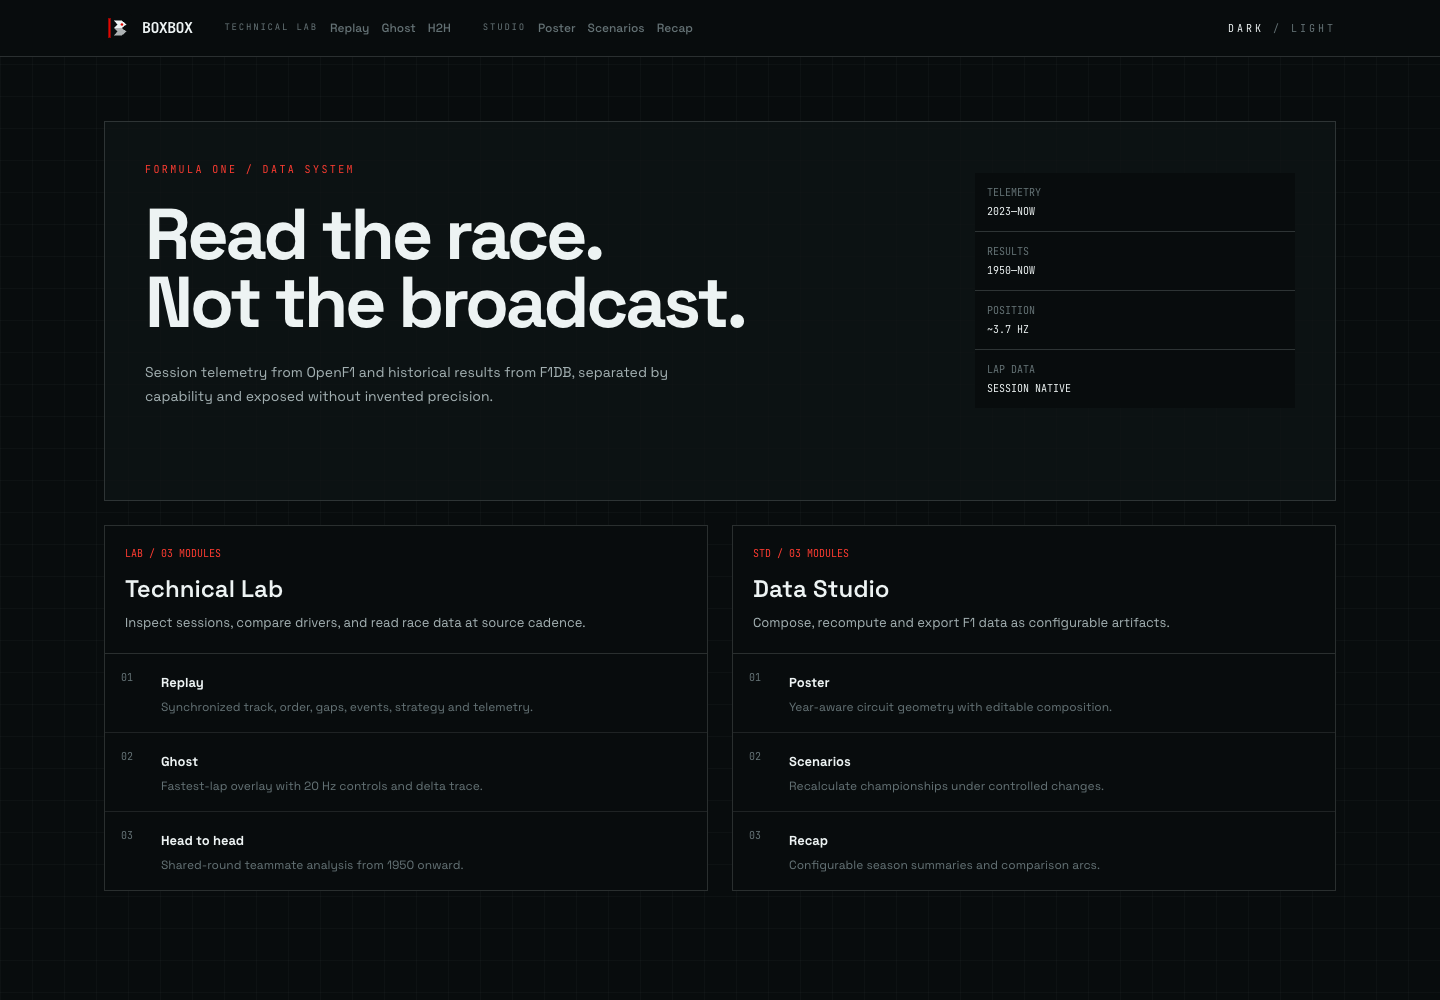
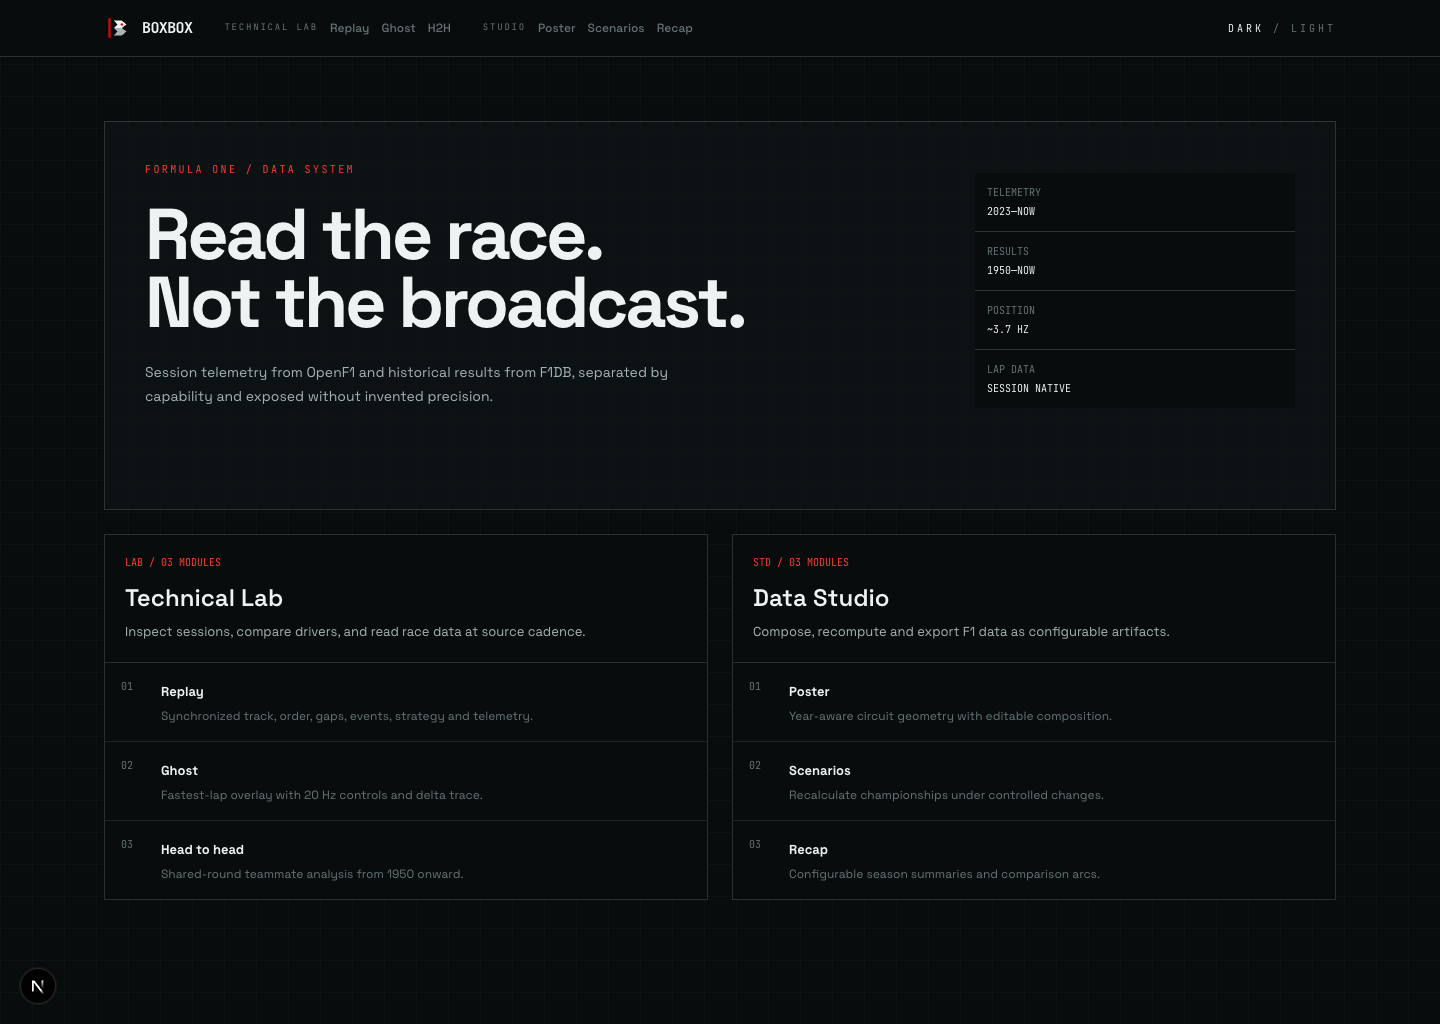
new screenshots of the app

diff --git a/scripts/capture-populated-pages.ts b/scripts/capture-populated-pages.ts
@@ -1,0 +1,89 @@
+import { mkdir } from "node:fs/promises";
+import { chromium, type Page } from "playwright";
+
+const baseUrl = process.env.BASE_URL ?? "http://localhost:3001";
+const outputDir = "screenshots";
+
+async function settle(page: Page) {
+  await page.evaluate(() => document.fonts.ready);
+  await page.waitForTimeout(800);
+}
+
+async function capture(page: Page, name: string) {
+  await settle(page);
+  await page.screenshot({ path: `${outputDir}/${name}.png` });
+}
+
+async function main() {
+  await mkdir(outputDir, { recursive: true });
+
+  const browser = await chromium.launch({ channel: "chrome" });
+  const context = await browser.newContext({
+    viewport: { width: 1440, height: 1024 },
+    colorScheme: "dark",
+    deviceScaleFactor: 1,
+  });
+
+  await context.addInitScript(() => {
+    localStorage.setItem("boxbox-theme", "dark");
+  });
+
+  const page = await context.newPage();
+  page.setDefaultTimeout(30_000);
+
+  try {
+    await page.goto(`${baseUrl}/`, { waitUntil: "networkidle" });
+    await capture(page, "home");
+
+  await page.goto(`${baseUrl}/lab/replay?year=2024&session=9590`);
+  await page.getByText("RUNNING ORDER", { exact: true }).waitFor({
+    state: "visible",
+    timeout: 120_000,
+  });
+  await capture(page, "replay");
+
+  await page.goto(`${baseUrl}/lab/ghost?year=2024&session=9590&a=1&b=4`);
+  await page.getByText("TELEMETRY — DISTANCE ALIGNED", { exact: true }).waitFor({
+    state: "visible",
+    timeout: 120_000,
+  });
+  await capture(page, "ghost");
+
+  await page.goto(`${baseUrl}/lab/h2h`);
+  await page.getByText("VERSUS", { exact: true }).waitFor({
+    state: "visible",
+    timeout: 90_000,
+  });
+  await page.getByText("ROUND LOG · RAW COMPARABLE RESULTS", { exact: true }).waitFor();
+  await capture(page, "h2h");
+
+  await page.goto(
+    `${baseUrl}/studio/poster?year=2025&track=monza&accent=ff3b30&bg=080c0d&ink=edf3f3&line=7&title=MONZA&subtitle=Italian%20Grand%20Prix`,
+  );
+  await page.locator("section svg").waitFor({ state: "visible", timeout: 30_000 });
+  await page.locator("section svg").getByText("MONZA", { exact: true }).waitFor();
+  await capture(page, "poster");
+
+  await page.goto(`${baseUrl}/studio/scenarios`);
+  await page.getByText("FINAL STANDINGS", { exact: true }).waitFor({
+    state: "visible",
+    timeout: 90_000,
+  });
+  await capture(page, "scenarios");
+
+    await page.goto(
+      `${baseUrl}/studio/recap?year=2021&driver=max-verstappen&rival=lewis-hamilton&bg=080c0d&ink=edf3f3&accent=ff3b30`,
+    );
+    const recap = page.locator(".recap-host svg");
+    await recap.waitFor({ state: "visible", timeout: 90_000 });
+    await recap.getByText("VERSTAPPEN", { exact: true }).waitFor();
+    await capture(page, "recap");
+  } finally {
+    await browser.close();
+  }
+}
+
+main().catch((error) => {
+  console.error(error);
+  process.exitCode = 1;
+});

diff --git a/src/app/ghost/page.tsx b/src/app/ghost/page.tsx
@@ -47,16 +47,40 @@ export default function GhostPage() {
   const [geometryNote, setGeometryNote] = useState<string | null>(null);
 
   useEffect(() => {
+    const requestedYear = Number(new URLSearchParams(window.location.search).get("year"));
+    if (YEARS.includes(requestedYear)) setYear(requestedYear);
+  }, []);
+
+  useEffect(() => {
+    let stale = false;
     setSessions([]);
     setMeetingKey(null);
     setSessionKey(null);
-    getJson<SessionInfo[]>(`/api/sessions?year=${year}`).then(setSessions).catch((e) => setError(String(e)));
+    getJson<SessionInfo[]>(`/api/sessions?year=${year}`)
+      .then((next) => {
+        if (!stale) setSessions(next);
+      })
+      .catch((e) => {
+        if (!stale) setError(String(e));
+      });
+    return () => {
+      stale = true;
+    };
   }, [year]);
 
   const meetings = useMemo(() => {
     const seen = new Map<number, SessionInfo>();
     for (const s of sessions) if (!seen.has(s.meeting_key)) seen.set(s.meeting_key, s);
     return [...seen.values()];
+  }, [sessions]);
+
+  useEffect(() => {
+    if (sessions.length === 0) return;
+    const requestedSession = Number(new URLSearchParams(window.location.search).get("session"));
+    const selected = sessions.find((session) => session.session_key === requestedSession);
+    if (!selected) return;
+    setMeetingKey(selected.meeting_key);
+    setSessionKey(selected.session_key);
   }, [sessions]);
 
   const meetingSessions = useMemo(
@@ -72,6 +96,15 @@ export default function GhostPage() {
     if (!sessionKey) return;
     getJson<DriverInfo[]>(`/api/drivers?session_key=${sessionKey}`).then(setDrivers).catch((e) => setError(String(e)));
   }, [sessionKey]);
+
+  useEffect(() => {
+    if (drivers.length === 0) return;
+    const params = new URLSearchParams(window.location.search);
+    const requestedA = Number(params.get("a"));
+    const requestedB = Number(params.get("b"));
+    if (drivers.some((driver) => driver.driver_number === requestedA)) setNumA(requestedA);
+    if (drivers.some((driver) => driver.driver_number === requestedB)) setNumB(requestedB);
+  }, [drivers]);
 
   useEffect(() => {
     if (!sessionKey || numA == null || numB == null || numA === numB) return;

diff --git a/src/app/replay/page.tsx b/src/app/replay/page.tsx
@@ -53,11 +53,35 @@ export default function ReplayPage() {
   const [geometryNote, setGeometryNote] = useState<string | null>(null);
 
   useEffect(() => {
+    const requestedYear = Number(new URLSearchParams(window.location.search).get("year"));
+    if (YEARS.includes(requestedYear)) setYear(requestedYear);
+  }, []);
+
+  useEffect(() => {
+    let stale = false;
     setSessions([]);
     setMeetingKey(null);
     setSessionKey(null);
-    getJson<SessionInfo[]>(`/api/sessions?year=${year}`).then(setSessions).catch((e) => setError(String(e)));
+    getJson<SessionInfo[]>(`/api/sessions?year=${year}`)
+      .then((next) => {
+        if (!stale) setSessions(next);
+      })
+      .catch((e) => {
+        if (!stale) setError(String(e));
+      });
+    return () => {
+      stale = true;
+    };
   }, [year]);
+
+  useEffect(() => {
+    if (sessions.length === 0) return;
+    const requestedSession = Number(new URLSearchParams(window.location.search).get("session"));
+    const selected = sessions.find((session) => session.session_key === requestedSession);
+    if (!selected) return;
+    setMeetingKey(selected.meeting_key);
+    setSessionKey(selected.session_key);
+  }, [sessions]);
 
   const meetings = useMemo(() => {
     const seen = new Map<number, SessionInfo>();